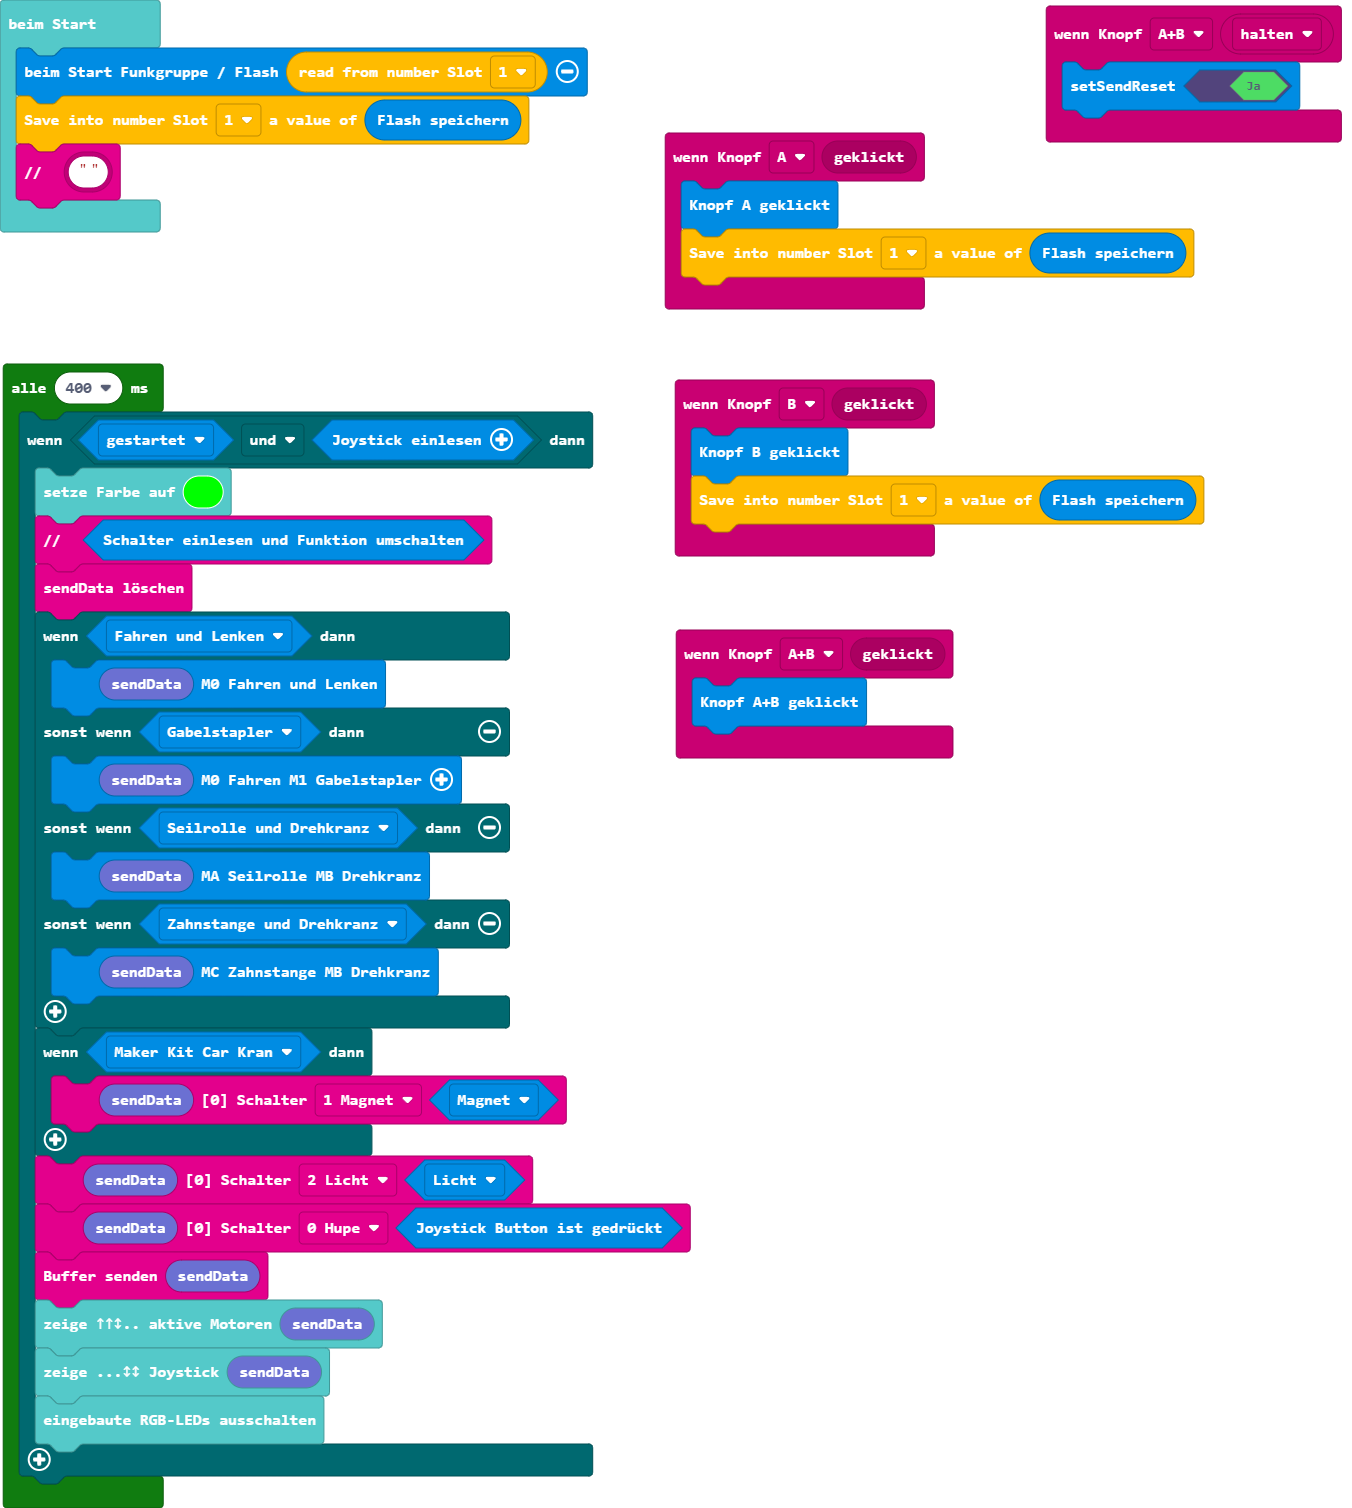
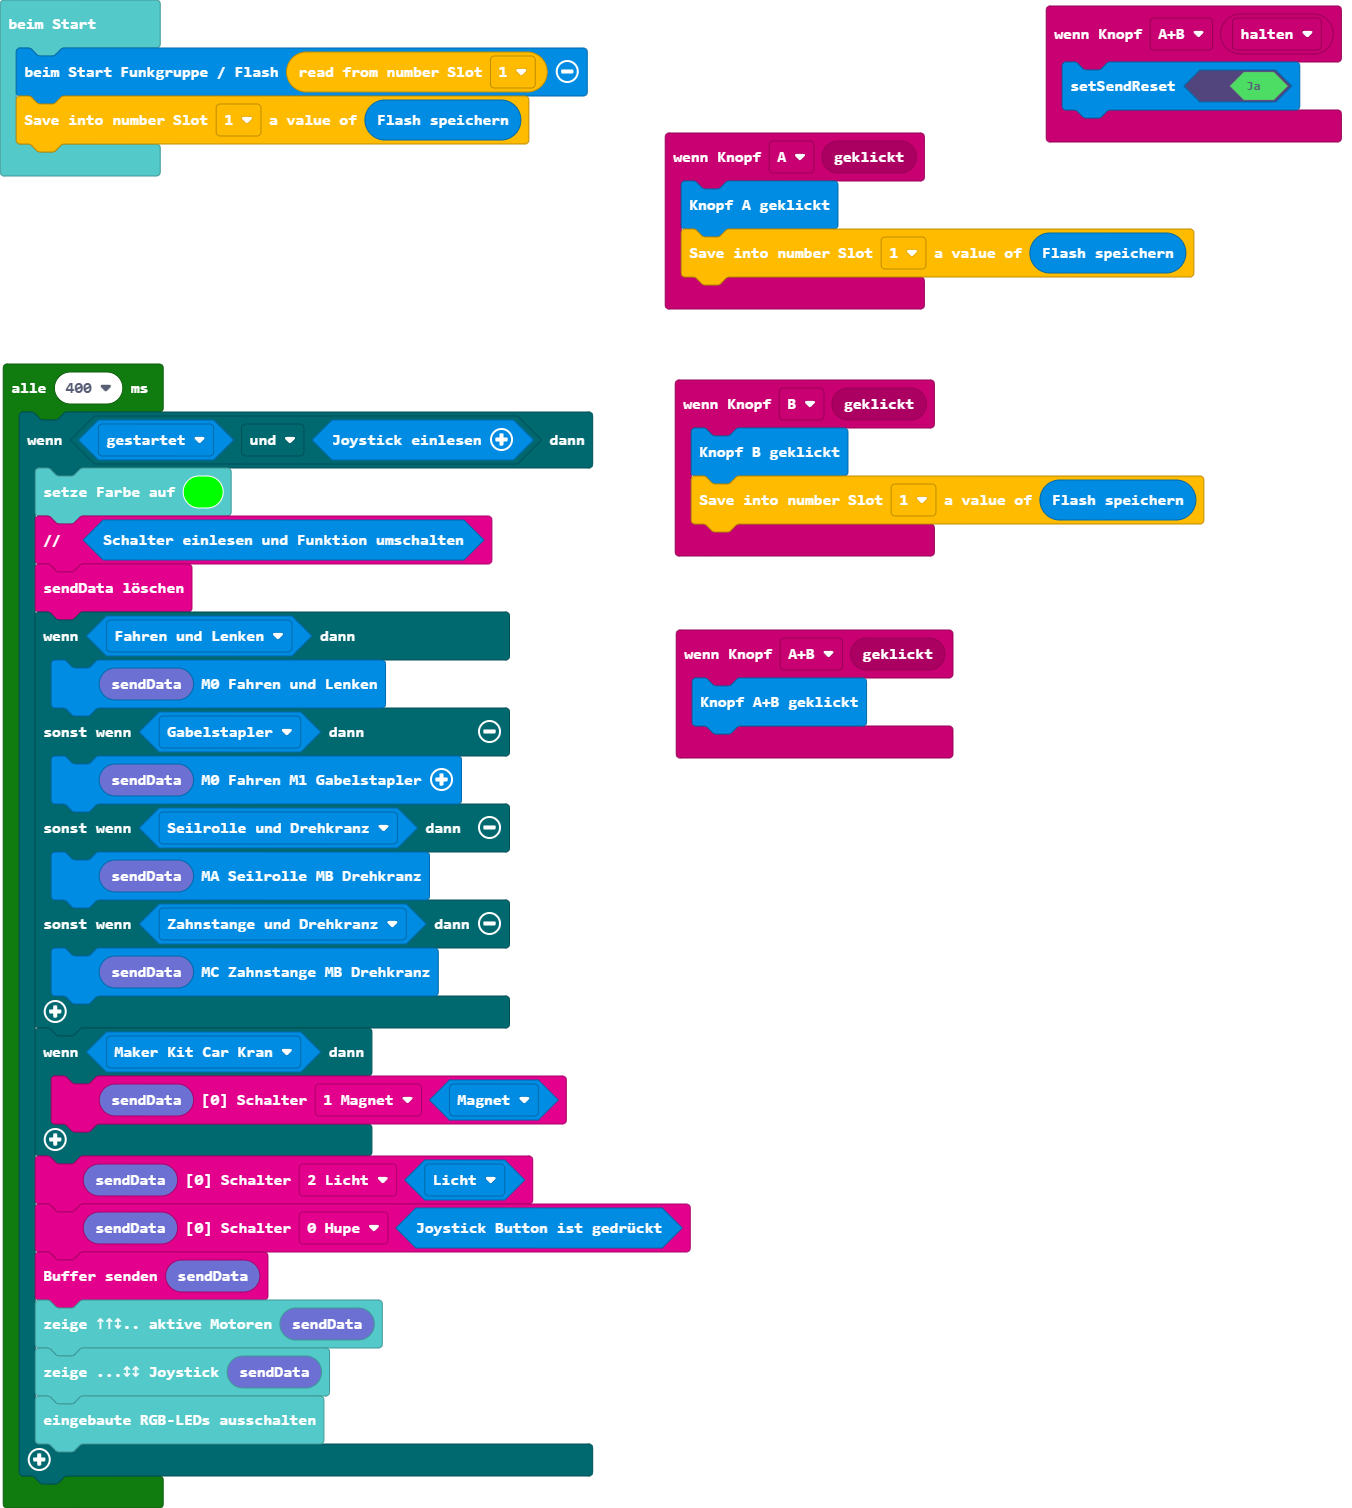
Aktualisiere main.blocks, main.ts

Changed region(s): [[0.0, 0.0935, 0.1243, 0.1558]]

diff --git a/main.ts b/main.ts
@@ -14,7 +14,6 @@ input.onButtonEvent(Button.AB, ButtonEvent.Hold, function () {
 })
 sender.beimStart(storage.getNumber(StorageSlots.s1))
 storage.putNumber(StorageSlots.s1, sender.storageBufferGet())
-radio.comment(radio.radio_text(""))
 loops.everyInterval(400, function () {
     if (sender.isFunktion(sender.eFunktion.ng) && sender.joystickQwiic()) {
         basic.setLedColor(0x00ff00)
